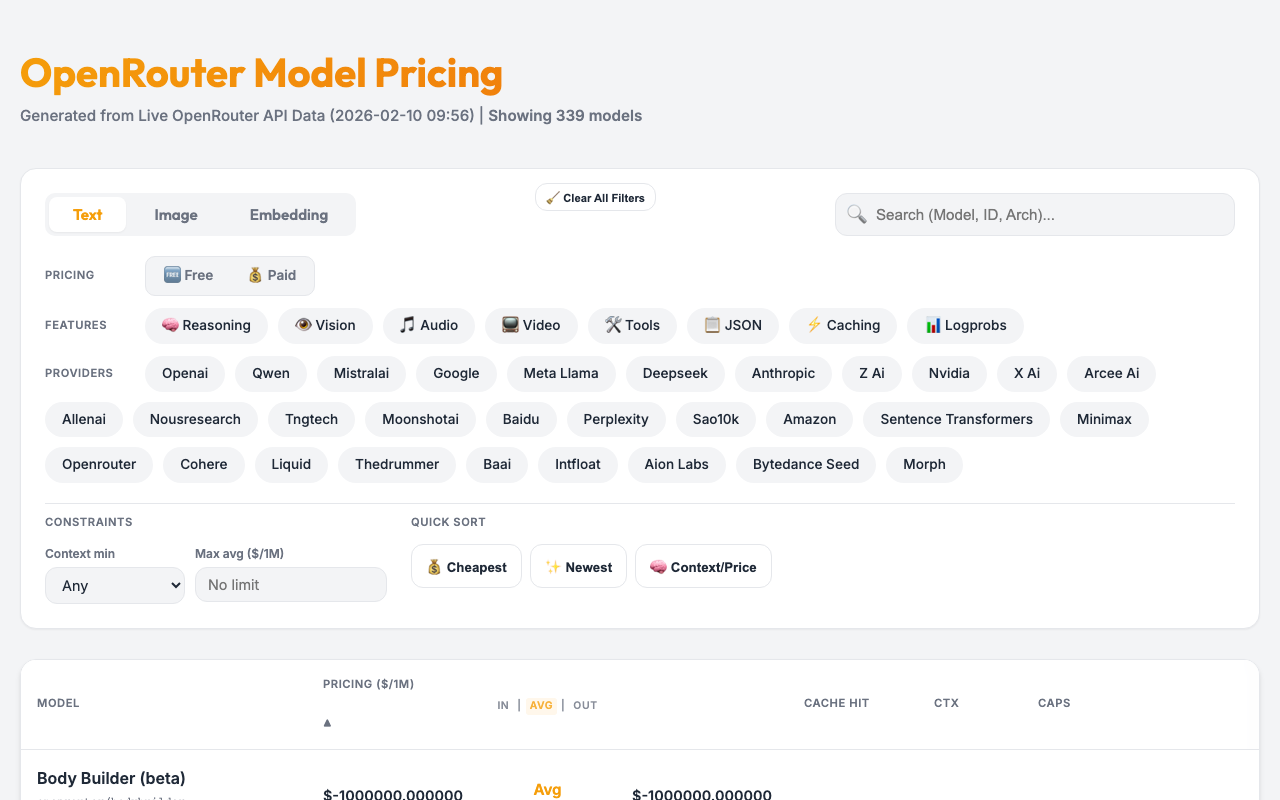
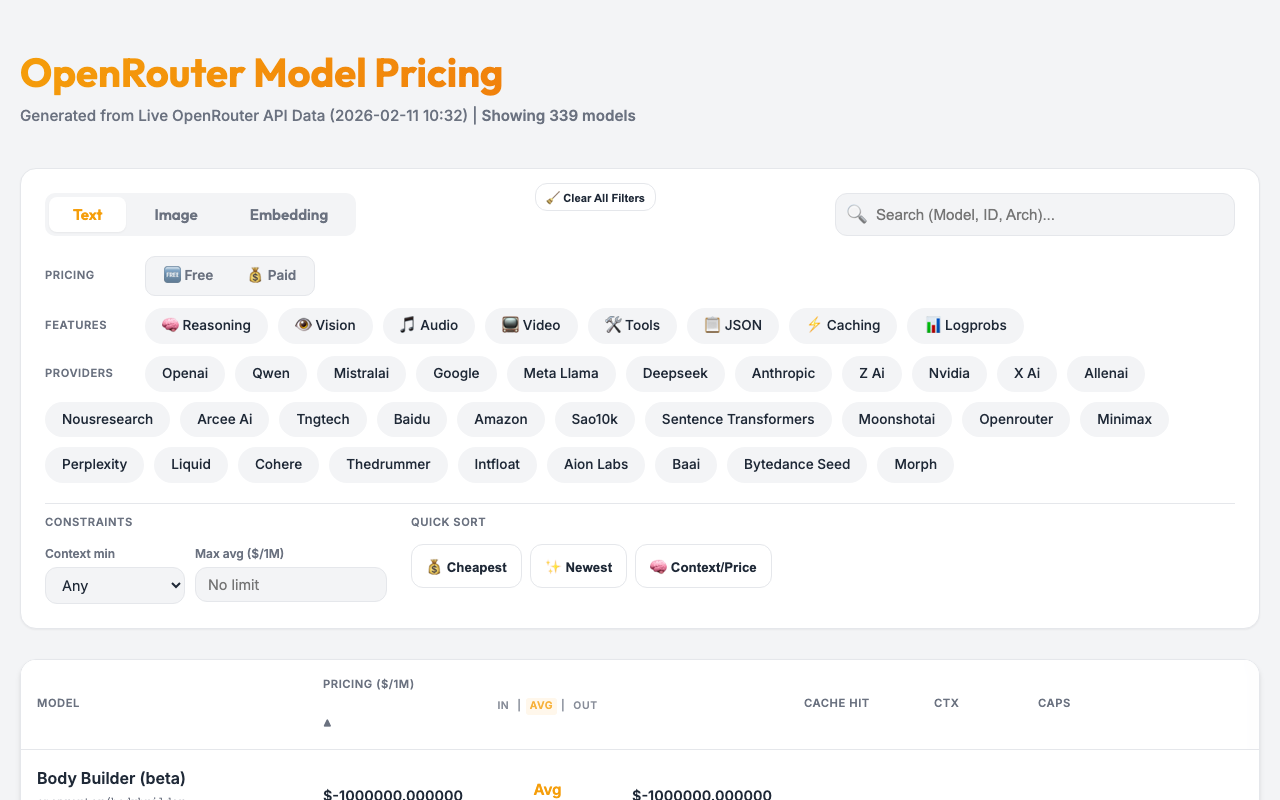
chore: automated pricing update (2026-02-11 10:32:10)
🔄 Changed Models (3): moonshotai/kimi-k2-thinking, openrouter/auto, qwen/qwen3-235b-a22b

diff --git a/docs/index.html b/docs/index.html
@@ -634,7 +634,7 @@
     <div class="container">
         <header>
             <h1>OpenRouter Model Pricing</h1>
-            <div class="meta">Generated from Live OpenRouter API Data (2026-02-10 09:56)</div>
+            <div class="meta">Generated from Live OpenRouter API Data (2026-02-11 10:32)</div>
         </header>
 
         <div class="controls">
@@ -3996,7 +3996,6 @@
         "frequency_penalty",
         "include_reasoning",
         "logit_bias",
-        "logprobs",
         "max_tokens",
         "min_p",
         "presence_penalty",
@@ -4010,7 +4009,6 @@
         "tool_choice",
         "tools",
         "top_k",
-        "top_logprobs",
         "top_p"
       ],
       "default_parameters": {
@@ -10374,7 +10372,7 @@
       "name": "Qwen: Qwen3 235B A22B",
       "created": 1745875757,
       "description": "Qwen3-235B-A22B is a 235B parameter mixture-of-experts (MoE) model developed by Qwen, activating 22B parameters per forward pass. It supports seamless switching between a \"thinking\" mode for complex reasoning, math, and code tasks, and a \"non-thinking\" mode for general conversational efficiency. The model demonstrates strong reasoning ability, multilingual support (100+ languages and dialects), advanced instruction-following, and agent tool-calling capabilities. It natively handles a 32K token context window and extends up to 131K tokens using YaRN-based scaling.",
-      "context_length": 40960,
+      "context_length": 131072,
       "architecture": {
         "modality": "text->text",
         "input_modalities": [
@@ -10387,11 +10385,12 @@
         "instruct_type": "qwen3"
       },
       "pricing": {
-        "prompt": "0.0000002",
-        "completion": "0.0000006"
+        "prompt": "0.00000022",
+        "completion": "0.00000088",
+        "input_cache_read": "0.00000011"
       },
       "top_provider": {
-        "context_length": 40960,
+        "context_length": 131072,
         "max_completion_tokens": null,
         "is_moderated": false
       },
@@ -10402,7 +10401,6 @@
         "logit_bias",
         "logprobs",
         "max_tokens",
-        "min_p",
         "presence_penalty",
         "reasoning",
         "repetition_penalty",
@@ -17360,7 +17358,7 @@
       "hugging_face_id": null,
       "name": "Auto Router",
       "created": 1699401600,
-      "description": "Your prompt will be processed by a meta-model and routed to one of dozens of models (see below), optimizing for the best possible output.\n\nTo see which model was used, visit [Activity](/activity), or read the `model` attribute of the response. Your response will be priced at the same rate as the routed model.\n\nLearn more, including how to customize the models for routing, in our [docs](/docs/guides/routing/routers/auto-router).\n\nRequests will be routed to the following models:\n- [anthropic/claude-3-haiku](/anthropic/claude-3-haiku)\n- [anthropic/claude-3.5-haiku](/anthropic/claude-3.5-haiku)\n- [anthropic/claude-3.7-sonnet](/anthropic/claude-3.7-sonnet)\n- [anthropic/claude-haiku-4.5](/anthropic/claude-haiku-4.5)\n- [anthropic/claude-opus-4](/anthropic/claude-opus-4)\n- [anthropic/claude-opus-4.1](/anthropic/claude-opus-4.1)\n- [anthropic/claude-opus-4.5](/anthropic/claude-opus-4.5)\n- [anthropic/claude-opus-4.6](/anthropic/claude-opus-4.6)\n- [anthropic/claude-sonnet-4](/anthropic/claude-sonnet-4)\n- [anthropic/claude-sonnet-4.5](/anthropic/claude-sonnet-4.5)\n- [cohere/command-r-08-2024](/cohere/command-r-08-2024)\n- [cohere/command-r-plus-08-2024](/cohere/command-r-plus-08-2024)\n- [deepseek/deepseek-r1](/deepseek/deepseek-r1)\n- [google/gemini-2.0-flash-001](/google/gemini-2.0-flash-001)\n- [google/gemini-2.5-flash](/google/gemini-2.5-flash)\n- [google/gemini-2.5-flash-lite](/google/gemini-2.5-flash-lite)\n- [google/gemini-2.5-pro](/google/gemini-2.5-pro)\n- [google/gemini-3-flash-preview](/google/gemini-3-flash-preview)\n- [google/gemini-3-pro-preview](/google/gemini-3-pro-preview)\n- [meta-llama/llama-3-70b-instruct](/meta-llama/llama-3-70b-instruct)\n- [meta-llama/llama-3-8b-instruct](/meta-llama/llama-3-8b-instruct)\n- [meta-llama/llama-3.1-405b-instruct](/meta-llama/llama-3.1-405b-instruct)\n- [meta-llama/llama-3.1-70b-instruct](/meta-llama/llama-3.1-70b-instruct)\n- [meta-llama/llama-3.1-8b-instruct](/meta-llama/llama-3.1-8b-instruct)\n- [meta-llama/llama-3.3-70b-instruct](/meta-llama/llama-3.3-70b-instruct)\n- [mistralai/codestral-2508](/mistralai/codestral-2508)\n- [mistralai/mistral-7b-instruct](/mistralai/mistral-7b-instruct)\n- [mistralai/mistral-large](/mistralai/mistral-large)\n- [mistralai/mistral-large-2407](/mistralai/mistral-large-2407)\n- [mistralai/mistral-large-2411](/mistralai/mistral-large-2411)\n- [mistralai/mistral-medium-3.1](/mistralai/mistral-medium-3.1)\n- [mistralai/mistral-nemo](/mistralai/mistral-nemo)\n- [mistralai/mistral-small-3.2-24b-instruct-2506](/mistralai/mistral-small-3.2-24b-instruct-2506)\n- [mistralai/mixtral-8x22b-instruct](/mistralai/mixtral-8x22b-instruct)\n- [mistralai/mixtral-8x7b-instruct](/mistralai/mixtral-8x7b-instruct)\n- [moonshotai/kimi-k2-thinking](/moonshotai/kimi-k2-thinking)\n- [moonshotai/kimi-k2.5](/moonshotai/kimi-k2.5)\n- [openai/chatgpt-4o-latest](/openai/chatgpt-4o-latest)\n- [openai/gpt-3.5-turbo](/openai/gpt-3.5-turbo)\n- [openai/gpt-4](/openai/gpt-4)\n- [openai/gpt-4-1106-preview](/openai/gpt-4-1106-preview)\n- [openai/gpt-4-turbo](/openai/gpt-4-turbo)\n- [openai/gpt-4-turbo-preview](/openai/gpt-4-turbo-preview)\n- [openai/gpt-4.1](/openai/gpt-4.1)\n- [openai/gpt-4.1-mini](/openai/gpt-4.1-mini)\n- [openai/gpt-4.1-nano](/openai/gpt-4.1-nano)\n- [openai/gpt-4o](/openai/gpt-4o)\n- [openai/gpt-4o-2024-05-13](/openai/gpt-4o-2024-05-13)\n- [openai/gpt-4o-2024-08-06](/openai/gpt-4o-2024-08-06)\n- [openai/gpt-4o-2024-11-20](/openai/gpt-4o-2024-11-20)\n- [openai/gpt-4o-mini](/openai/gpt-4o-mini)\n- [openai/gpt-4o-mini-2024-07-18](/openai/gpt-4o-mini-2024-07-18)\n- [openai/gpt-5](/openai/gpt-5)\n- [openai/gpt-5-mini](/openai/gpt-5-mini)\n- [openai/gpt-5-nano](/openai/gpt-5-nano)\n- [openai/gpt-5.1](/openai/gpt-5.1)\n- [openai/gpt-5.2](/openai/gpt-5.2)\n- [openai/gpt-5.2-pro](/openai/gpt-5.2-pro)\n- [openai/gpt-oss-120b](/openai/gpt-oss-120b)\n- [perplexity/sonar](/perplexity/sonar)\n- [qwen/qwen3-14b](/qwen/qwen3-14b)\n- [qwen/qwen3-235b-a22b](/qwen/qwen3-235b-a22b)\n- [qwen/qwen3-32b](/qwen/qwen3-32b)\n- [x-ai/grok-3](/x-ai/grok-3)\n- [x-ai/grok-3-mini](/x-ai/grok-3-mini)\n- [x-ai/grok-4](/x-ai/grok-4)",
+      "description": "Your prompt will be processed by a meta-model and routed to one of dozens of models (see below), optimizing for the best possible output.\n\nTo see which model was used, visit [Activity](/activity), or read the `model` attribute of the response. Your response will be priced at the same rate as the routed model.\n\nLearn more, including how to customize the models for routing, in our [docs](/docs/guides/routing/routers/auto-router).\n\nRequests will be routed to the following models:\n- [anthropic/claude-haiku-4.5](/anthropic/claude-haiku-4.5)\n- [anthropic/claude-opus-4.6](/anthropic/claude-opus-4.6)\n- [anthropic/claude-sonnet-4.5](/anthropic/claude-sonnet-4.5)\n- [deepseek/deepseek-r1](/deepseek/deepseek-r1)\n- [google/gemini-2.5-flash-lite](/google/gemini-2.5-flash-lite)\n- [google/gemini-3-flash-preview](/google/gemini-3-flash-preview)\n- [google/gemini-3-pro-preview](/google/gemini-3-pro-preview)\n- [meta-llama/llama-3.3-70b-instruct](/meta-llama/llama-3.3-70b-instruct)\n- [mistralai/codestral-2508](/mistralai/codestral-2508)\n- [mistralai/mistral-large](/mistralai/mistral-large)\n- [mistralai/mistral-medium-3.1](/mistralai/mistral-medium-3.1)\n- [mistralai/mistral-small-3.2-24b-instruct-2506](/mistralai/mistral-small-3.2-24b-instruct-2506)\n- [moonshotai/kimi-k2-thinking](/moonshotai/kimi-k2-thinking)\n- [moonshotai/kimi-k2.5](/moonshotai/kimi-k2.5)\n- [openai/gpt-5](/openai/gpt-5)\n- [openai/gpt-5-mini](/openai/gpt-5-mini)\n- [openai/gpt-5-nano](/openai/gpt-5-nano)\n- [openai/gpt-5.1](/openai/gpt-5.1)\n- [openai/gpt-5.2](/openai/gpt-5.2)\n- [openai/gpt-5.2-pro](/openai/gpt-5.2-pro)\n- [openai/gpt-oss-120b](/openai/gpt-oss-120b)\n- [perplexity/sonar](/perplexity/sonar)\n- [qwen/qwen3-235b-a22b](/qwen/qwen3-235b-a22b)\n- [x-ai/grok-3](/x-ai/grok-3)\n- [x-ai/grok-3-mini](/x-ai/grok-3-mini)\n- [x-ai/grok-4](/x-ai/grok-4)",
       "context_length": 2000000,
       "architecture": {
         "modality": "text+image+file+audio+video->text+image",
@@ -18456,7 +18454,7 @@
   ],
   "other": []
 };
-        window.providerOptions = ['openai', 'qwen', 'mistralai', 'google', 'meta-llama', 'deepseek', 'anthropic', 'z-ai', 'nvidia', 'x-ai', 'arcee-ai', 'allenai', 'nousresearch', 'tngtech', 'moonshotai', 'baidu', 'perplexity', 'sao10k', 'amazon', 'sentence-transformers', 'minimax', 'openrouter', 'cohere', 'liquid', 'thedrummer', 'baai', 'intfloat', 'aion-labs', 'bytedance-seed', 'morph', 'inception', 'thenlper', 'neversleep', 'relace', 'inflection', 'microsoft', 'writer', 'undi95', 'prime-intellect', 'tencent', 'ibm-granite', 'kwaipilot', 'raifle', 'nex-agi', 'essentialai', 'upstage', 'xiaomi', 'switchpoint', 'alibaba', 'gryphe', 'meituan', 'bytedance', 'cognitivecomputations', 'opengvlab', 'anthracite-org', 'deepcogito', 'alfredpros', 'stepfun', 'ai21', 'eleutherai', 'mancer', 'alpindale'];
+        window.providerOptions = ['openai', 'qwen', 'mistralai', 'google', 'meta-llama', 'deepseek', 'anthropic', 'z-ai', 'nvidia', 'x-ai', 'allenai', 'nousresearch', 'arcee-ai', 'tngtech', 'baidu', 'amazon', 'sao10k', 'sentence-transformers', 'moonshotai', 'openrouter', 'minimax', 'perplexity', 'liquid', 'cohere', 'thedrummer', 'intfloat', 'aion-labs', 'baai', 'bytedance-seed', 'morph', 'neversleep', 'thenlper', 'microsoft', 'inception', 'inflection', 'relace', 'nex-agi', 'bytedance', 'alibaba', 'switchpoint', 'ai21', 'xiaomi', 'eleutherai', 'kwaipilot', 'essentialai', 'ibm-granite', 'opengvlab', 'mancer', 'writer', 'cognitivecomputations', 'alpindale', 'meituan', 'stepfun', 'undi95', 'anthracite-org', 'upstage', 'prime-intellect', 'raifle', 'gryphe', 'alfredpros', 'tencent', 'deepcogito'];
         let currentTab = 'text';
         let sortKey = 'price_avg';
         let sortAsc = true;
